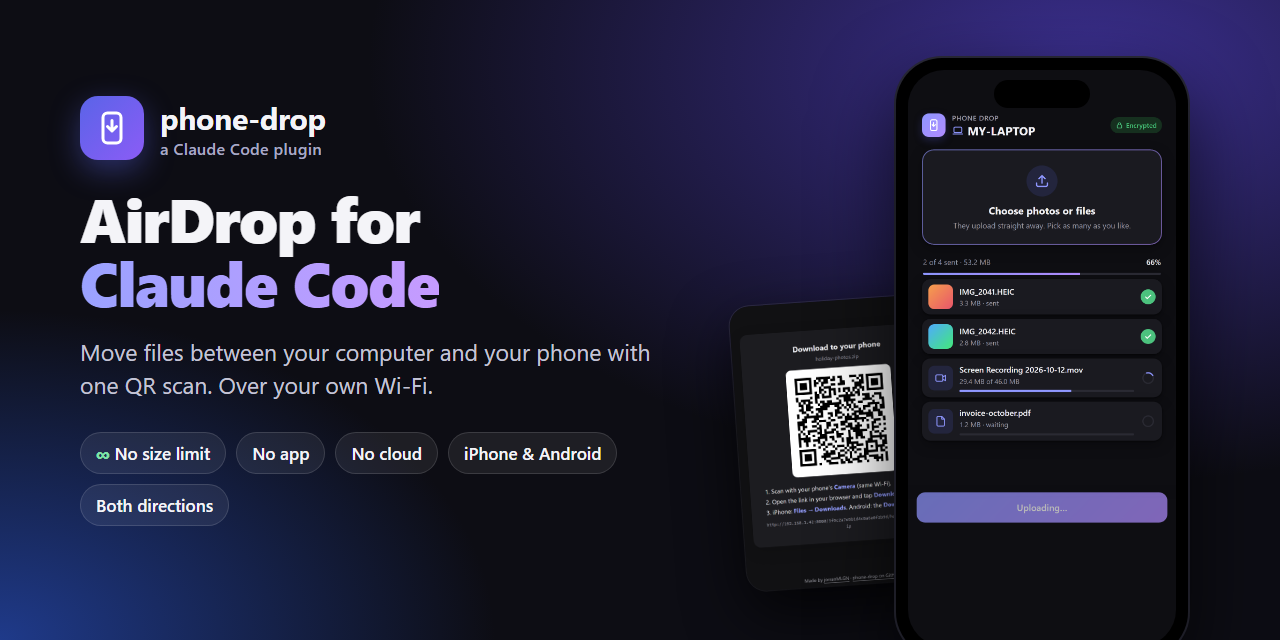
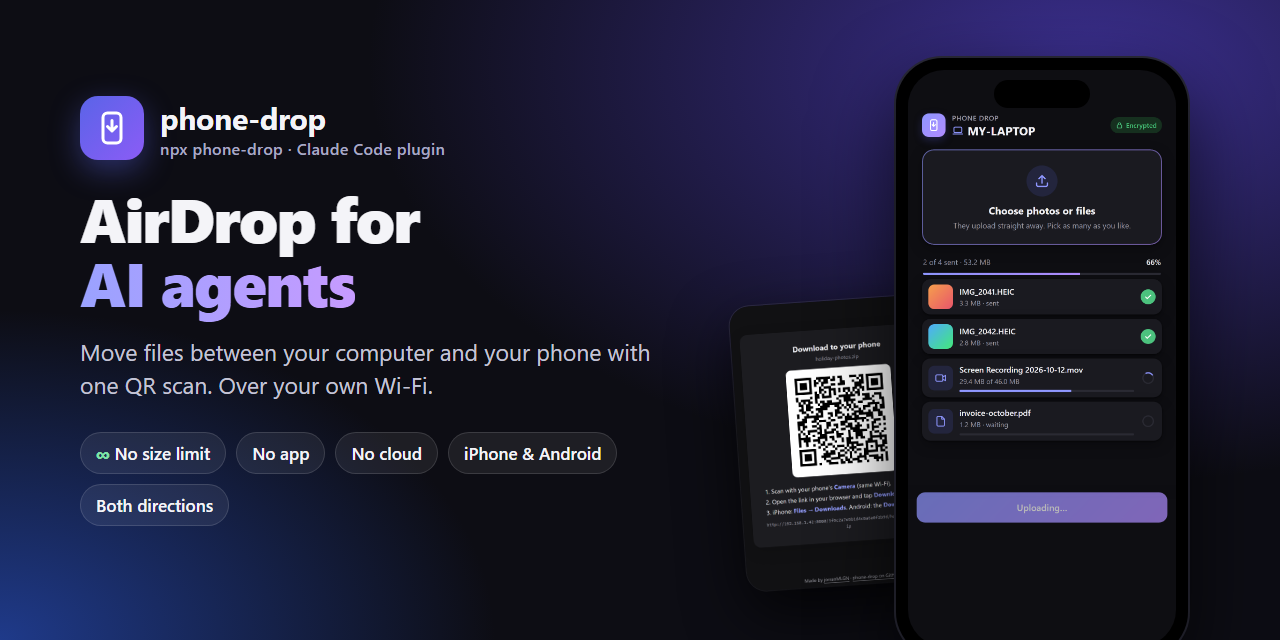
Ship as an npm CLI too: npx phone-drop
- package.json is publishable (bin "phone-drop", files whitelist), so
  `npx phone-drop <file>` works for anyone and for any AI agent that can
  run shell commands. The Claude Code plugin uses the same script.
- `phone-drop <file>` as shorthand for send, --help and --version.
- QR code is also drawn in the terminal when run interactively.
- ~/.phone-drop/config.json for settings outside Claude Code.
- README: terminal install, snippet for AGENTS.md / GEMINI.md / Cursor
  rules, config file docs; banner now says "AirDrop for AI agents".

Changed region(s): [[0.0625, 0.4062, 0.3438, 0.5], [0.125, 0.2188, 0.3438, 0.25]]

diff --git a/README.md b/README.md
@@ -1,10 +1,11 @@
 # phone-drop
 
 <p align="center">
-  <img src="docs/images/banner.png" alt="phone-drop: AirDrop for Claude Code. Move files between your computer and your phone with one QR scan." width="100%">
+  <img src="docs/images/banner.png" alt="phone-drop: AirDrop for AI agents. Move files between your computer and your phone with one QR scan." width="100%">
 </p>
 
 <p align="center">
+  <a href="https://www.npmjs.com/package/phone-drop"><img alt="npm" src="https://img.shields.io/npm/v/phone-drop?color=5a64e8&label=npx%20phone-drop"></a>
   <a href="LICENSE"><img alt="MIT license" src="https://img.shields.io/badge/license-MIT-5a64e8"></a>
   <img alt="Claude Code plugin" src="https://img.shields.io/badge/Claude_Code-plugin-8b5cf6">
   <img alt="Works with iPhone and Android" src="https://img.shields.io/badge/phone-iPhone_%7C_Android-22a05b">
@@ -12,13 +13,15 @@
   <img alt="No file size limit" src="https://img.shields.io/badge/file_size-no_limit-e8566c">
 </p>
 
-<p align="center"><b>Ask Claude to put a file on your phone, or to grab files from it.</b><br>
+<p align="center"><b>Ask your AI agent (or your terminal) to put a file on your phone, or to grab files from it.</b><br>
 A QR code appears, you scan it, and the files go straight between your phone and your computer over your own Wi-Fi.<br>
 No app, no cable, no cloud, no account, <b>no file size limit</b>.</p>
 
 ```text
+$ npx phone-drop holiday-video.mov        # or just ask Claude Code / Codex / Gemini / Cursor
+
 You:     "put ~/Downloads/holiday-video.mov on my phone"
-Claude:  starts a one-shot server and opens a QR page in your browser
+Agent:   starts a one-shot server and opens a QR page in your browser
 Phone:   Camera → scan → Download → done
 
 You:     "let me upload some photos from my phone"
@@ -51,7 +54,7 @@ Phone:   Camera → scan → choose photos → they upload and land in ~/Downloa
 - 🔁 **Both directions.** Send files to your phone, or upload photos, videos and documents from it.
 - 🔒 **Private by design.** No cloud, no account, no third party. Each transfer uses a random one-time link that stops working when it's done. Add an optional **passcode** and HTTPS encryption for extra protection.
 - 🧩 **Opens files in apps.** One scan can open the file in an app instead. [Feather](https://github.com/claration/Feather) (iOS `.ipa` sideloading) is built in, and you can add your own with a URL template.
-- 💬 **Just ask Claude.** No commands to remember. Claude finds the file, picks the right mode and tells you when it has arrived.
+- 💬 **Just ask your AI.** A ready-made [Claude Code](https://code.claude.com) plugin, a [snippet](#use-it-with-other-ai-agents) for Codex, Gemini CLI, Cursor, Copilot and others, or plain `npx phone-drop` in your own terminal.
 
 ### Compared to the usual ways
 
@@ -76,20 +79,31 @@ Phone:   Camera → scan → choose photos → they upload and land in ~/Downloa
 4. [Optional: passcode](#optional-passcode)
 5. [Optional: one-time HTTPS setup](#optional-one-time-https-setup)
 6. [Open in apps (Feather and your own)](#open-in-apps-feather-and-your-own)
-7. [Configuration](#configuration)
-8. [Troubleshooting](#troubleshooting)
-9. [Security notes](#security-notes)
-10. [Uninstall](#uninstall)
-11. [Command-line reference](#command-line-reference)
+7. [Use it with other AI agents](#use-it-with-other-ai-agents)
+8. [Configuration](#configuration)
+9. [Troubleshooting](#troubleshooting)
+10. [Security notes](#security-notes)
+11. [Uninstall](#uninstall)
+12. [Command-line reference](#command-line-reference)
 
 ---
 
 ## Install
 
 **Requirements:**
-- [Claude Code](https://code.claude.com)
 - [Node.js](https://nodejs.org) 18 or newer
 - Your computer and phone on the **same Wi-Fi network**
+
+### From your terminal (any OS, no AI needed)
+
+```bash
+npx phone-drop photo.jpg        # send a file to your phone
+npx phone-drop receive          # get files from your phone
+```
+
+Or install it once with `npm install -g phone-drop` and drop the `npx`. The QR code opens in your browser **and** is drawn right in the terminal. Run `phone-drop --help` for all options.
+
+### As a Claude Code plugin
 
 Inside Claude Code:
 
@@ -111,7 +125,11 @@ claude plugin install phone-drop@phone-drop
 ```
 </details>
 
-Restart Claude Code (or run `/reload-plugins`). Claude Code installs the one npm dependency (`qrcode`) automatically from `package-lock.json`.
+Restart Claude Code (or run `/reload-plugins`). Claude Code installs the one npm dependency (`qrcode`) automatically from `package-lock.json`. Then just ask, or use `/phone-drop:send` (💻 → 📱) and `/phone-drop:receive` (📱 → 💻).
+
+### With other AI agents
+
+See [Use it with other AI agents](#use-it-with-other-ai-agents): one snippet for Codex, Gemini CLI, Cursor, GitHub Copilot, Windsurf, Aider and the like.
 
 ## Send a file
 
@@ -298,9 +316,47 @@ You can also try a template once without saving it: `--open "myapp://import?url=
 
 Check the app's own documentation for its URL scheme. Most apps that support "install from URL" or "import from URL" document one.
 
+## Use it with other AI agents
+
+phone-drop is a plain command-line tool, so any AI agent that can run terminal commands can use it. Paste this into your agent's instructions file:
+- `AGENTS.md` (Codex, GitHub Copilot, Cursor, Windsurf and others that read it)
+- `GEMINI.md` (Gemini CLI)
+- `.cursor/rules`
+- your Aider conventions file
+
+```markdown
+## Sending files to my phone (phone-drop)
+
+When I ask to send/put a file on my phone, or to get/upload files from my phone:
+- Computer → phone: run `npx -y phone-drop send "<absolute path>"`
+  (add `--open feather` to open an .ipa in Feather, `--download` to force a plain download).
+- Phone → computer: run `npx -y phone-drop receive` (add `--to "<folder>"` to choose where files go).
+- Add `--passcode` if I ask for a passcode, and tell me the `Passcode:` line it prints.
+- Run it in the background if you can. It keeps running until the transfer is done
+  (exit code 0 = done, 2 = timed out). A QR page opens in my browser automatically;
+  also give me the `Link:` line it prints.
+- When it finishes, tell me what was transferred (receive prints the saved file paths).
+- `npx -y phone-drop --help` lists every option.
+```
+
+> **Agents that can't run commands in the background** block until the phone has the file. That's fine, because the QR page opens in your browser by itself. But they can't relay a *random* passcode in time. Use a fixed passcode in `~/.phone-drop/config.json` instead (see below).
+
 ## Configuration
 
-Open the settings dialog in Claude Code:
+**Terminal and other agents:** create `~/.phone-drop/config.json`. All keys are optional:
+
+```json
+{
+  "transport": "auto",
+  "apps": ["feather=feather://install/{url}", "myapp=myapp://import?url={url_encoded}"],
+  "auto_open": ["ipa=feather", "tipa=feather"],
+  "receive_dir": "~/Downloads",
+  "passcode": "",
+  "timeout_minutes": 15
+}
+```
+
+**Claude Code:** open the settings dialog:
 
 ```text
 /plugin configure phone-drop@phone-drop
@@ -315,7 +371,7 @@ Open the settings dialog in Claude Code:
 | **Passcode** | *(empty: off)* | `random`: new 6-digit code per transfer. Any other value: that fixed code (stored in plain text in settings.json). |
 | **Timeout (minutes)** | `15` | Stop serving if nothing is transferred. |
 
-Claude Code saves these in your `settings.json` under `pluginConfigs`, and the script reads them from there. Restart Claude Code after you change them.
+Claude Code saves these in your `settings.json` under `pluginConfigs`, and the script reads them from there. Restart Claude Code after you change them. If both exist, the Claude Code settings win over `config.json`, and command-line flags win over both.
 
 ## Troubleshooting
 
@@ -347,24 +403,30 @@ claude plugin uninstall phone-drop@phone-drop
 claude plugin marketplace remove phone-drop
 ```
 
+From npm: `npm uninstall -g phone-drop` (nothing to do if you only used `npx`).
+
 If you did the HTTPS setup:
 - delete `~/.phone-drop/` on your computer
 - remove the **Phone Drop Local CA** profile from your phone
 
 ## Command-line reference
 
-The plugin is two Claude Code skills ([send](skills/send/SKILL.md), [receive](skills/receive/SKILL.md)) wrapped around one Node script, which you can also run on its own:
+Everything is one Node script: the `phone-drop` command on npm. The Claude Code plugin is two skills ([send](skills/send/SKILL.md), [receive](skills/receive/SKILL.md)) wrapped around that same script.
 
 ```bash
-node scripts/phone-drop.mjs send <file>                  # download (or auto-open by file type)
-node scripts/phone-drop.mjs send <file> --open feather   # open in a configured app
-node scripts/phone-drop.mjs send <file> --download       # always a plain download
-node scripts/phone-drop.mjs receive                      # phone → computer (upload page)
-node scripts/phone-drop.mjs receive --to ~/Desktop       # …into a specific folder
-node scripts/phone-drop.mjs setup                        # one-time HTTPS setup
-node scripts/phone-drop.mjs status                       # transport, apps, CA, LAN IP
-node scripts/phone-drop.mjs apps                         # configured apps + auto-open rules
+phone-drop <file>                          # short for "send"
+phone-drop send <file>                     # download (or auto-open by file type)
+phone-drop send <file> --open feather      # open in a configured app
+phone-drop send <file> --download          # always a plain download
+phone-drop receive                         # phone → computer (upload page)
+phone-drop receive --to ~/Desktop          # …into a specific folder
+phone-drop setup                           # one-time HTTPS setup
+phone-drop status                          # transport, apps, CA, LAN IP
+phone-drop apps                            # configured apps + auto-open rules
+phone-drop --help | --version
 ```
+
+(Use `npx phone-drop …` if it isn't installed globally.)
 
 | Option | Default | |
 |---|---|---|
@@ -379,6 +441,7 @@ node scripts/phone-drop.mjs apps                         # configured apps + aut
 | `--port <n>` | `8443` (HTTPS), `8080` (HTTP, setup) | |
 | `--timeout <min>` | `15` | stop after this long with nothing being transferred (never during a transfer) |
 | `--no-browser` | off | don't open the QR page (its path is still printed) |
+| `--no-terminal-qr` | off | don't draw the QR code in the terminal (only drawn when run in a real terminal) |
 
 Exit codes: `0` delivered/received, `1` error, `2` timed out (nothing transferred).
 
